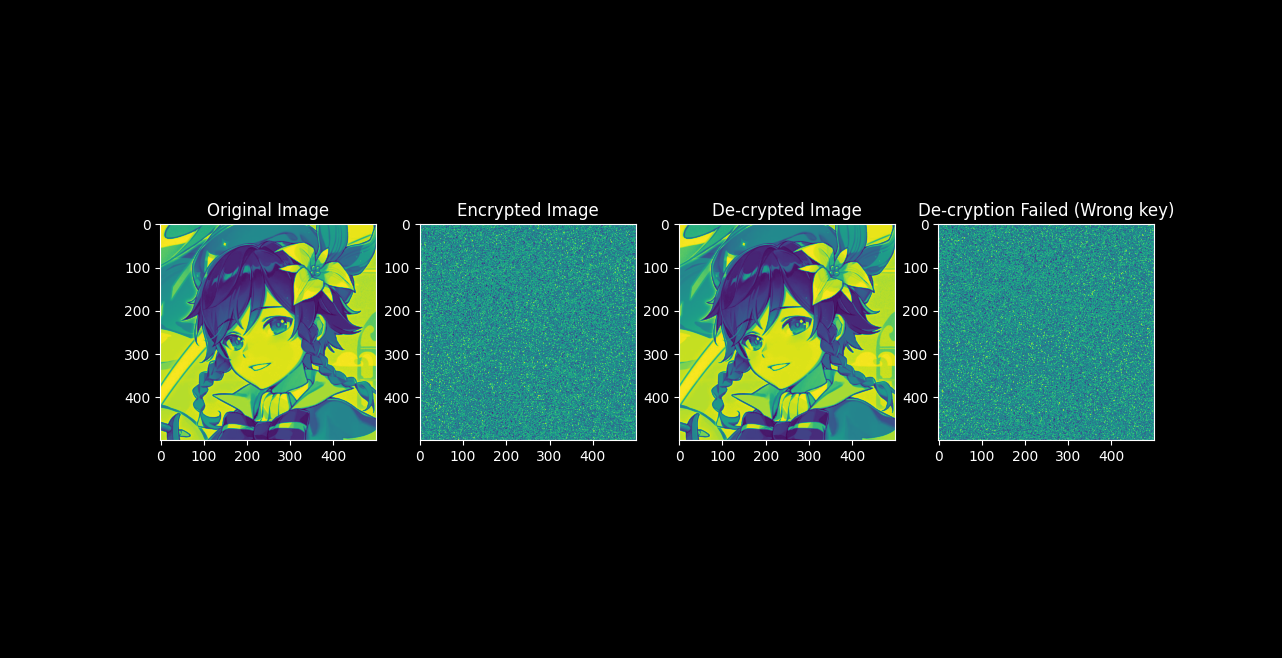
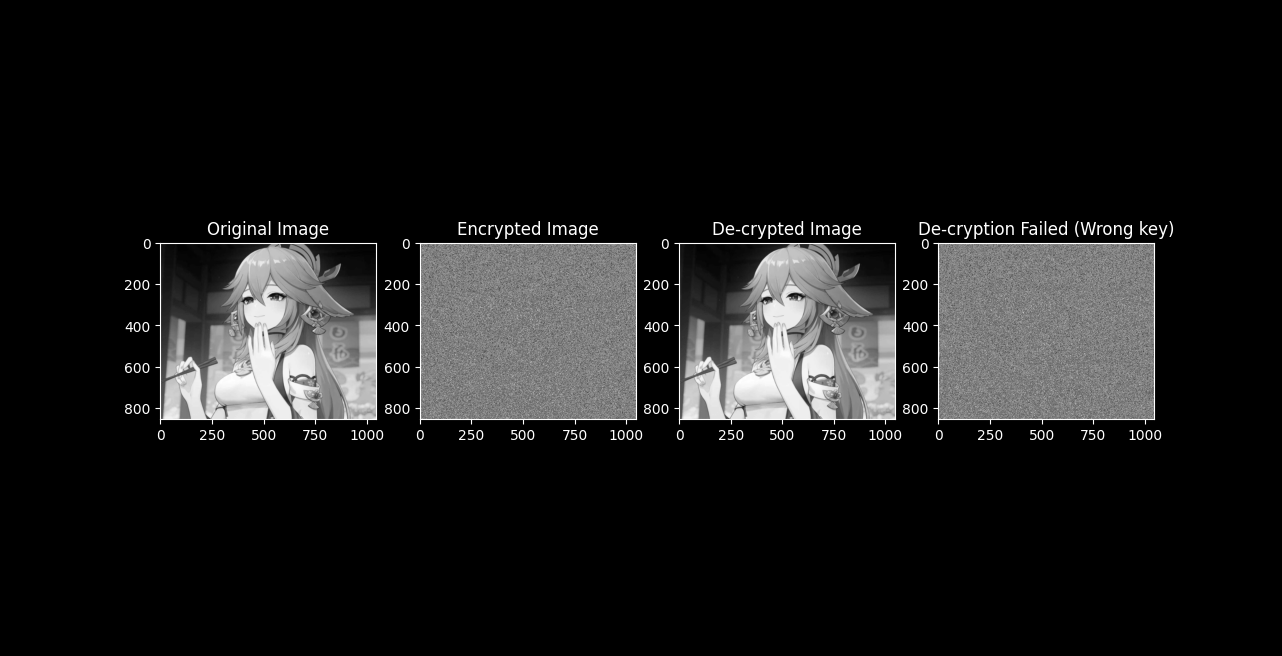
grey map

Changed region(s): [[0.0936, 0.3049, 0.936, 0.7012]]

diff --git a/encrypt.py b/encrypt.py
@@ -1,15 +1,14 @@
 import numpy as np
 
 import lprandom as lp
-from PIL import Image , ImageOps
+from PIL import Image
 import matplotlib.pyplot as plt
 plt.style.use('dark_background')
 
 fig, (ax1,ax2,ax3,ax4) = plt.subplots(1, 4, figsize=(16, 9))
 
 
-im1 = Image.open(r"images/test.jpg")
-im1 = ImageOps.grayscale(im1)
+im1 = Image.open(r"images/yae.PNG").convert('L')
 (w,h) = im1.size
 rng,seed = lp.lprandom_int_0_256(w*h)
 rng2,seed = lp.lprandom_int_0_256(w*h,seed+.00001)
@@ -17,7 +16,7 @@ rng2,seed = lp.lprandom_int_0_256(w*h,seed+.00001)
 im1p = im1.load()
 t = 0
 
-ax1.imshow(im1)
+ax1.imshow(im1,cmap="gray")
 ax1.set_title("Original Image")
 
 for i in range(w):
@@ -27,7 +26,7 @@ for i in range(w):
         t+=1
 t = 0
 
-ax2.imshow(im1)
+ax2.imshow(im1,cmap="gray")
 ax2.set_title("Encrypted Image")
 ##DE-ENCRYPT  WITH SAME KEY
 
@@ -37,7 +36,7 @@ for i in range(w):
         im1.putpixel((i, j),int(im1.getpixel((i,j)))^int(rng[t]))
         t+=1
 
-ax3.imshow(im1)
+ax3.imshow(im1,cmap="gray")
 ax3.set_title("De-crypted Image")
 t = 0
 
@@ -57,7 +56,7 @@ for i in range(w):
         im1.putpixel((i, j),int(im1.getpixel((i,j)))^int(rng2[t]))
         t+=1
 
-ax4.imshow(im1)
+ax4.imshow(im1,cmap="gray")
 ax4.set_title("De-cryption Failed (Wrong key)")
 
 plt.show()
